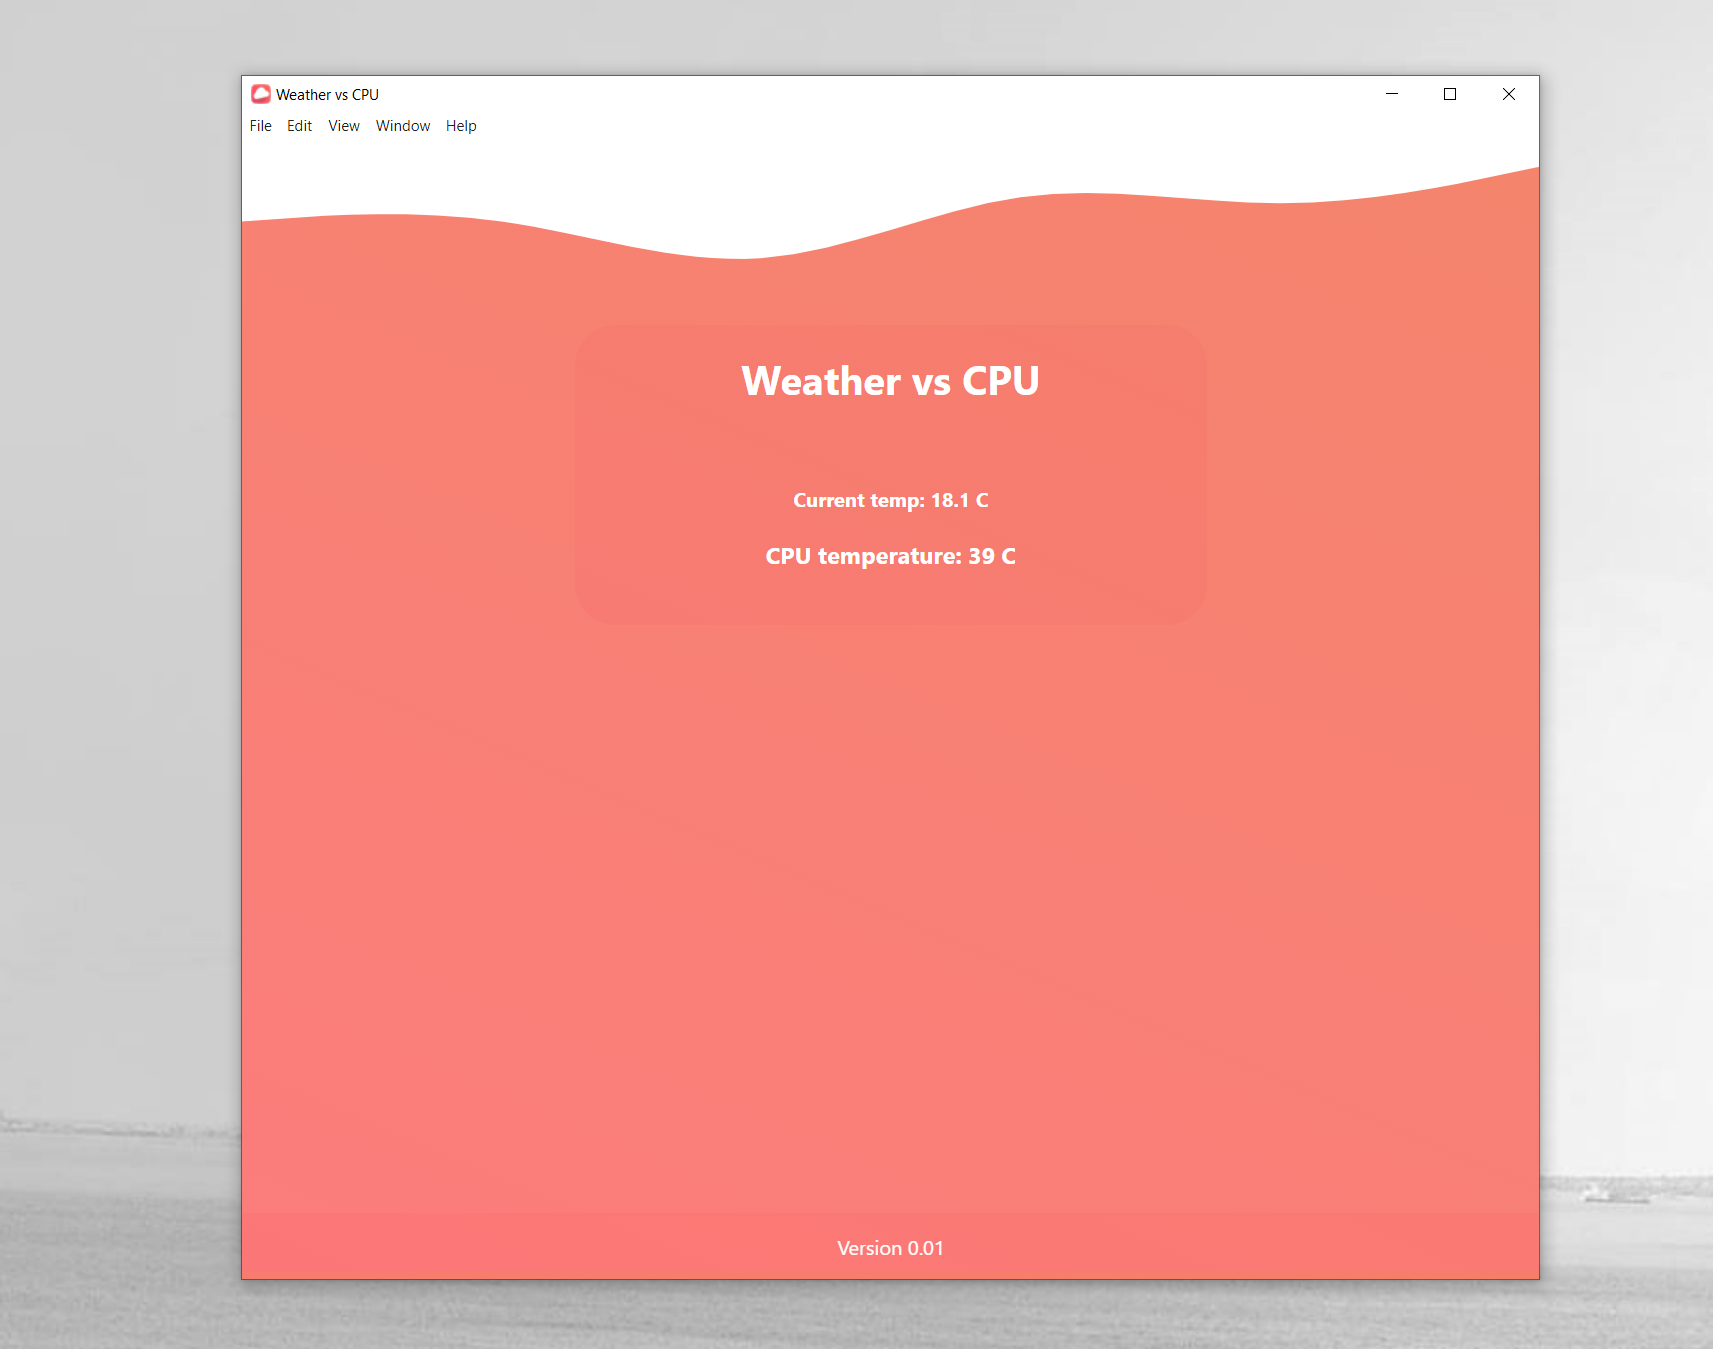
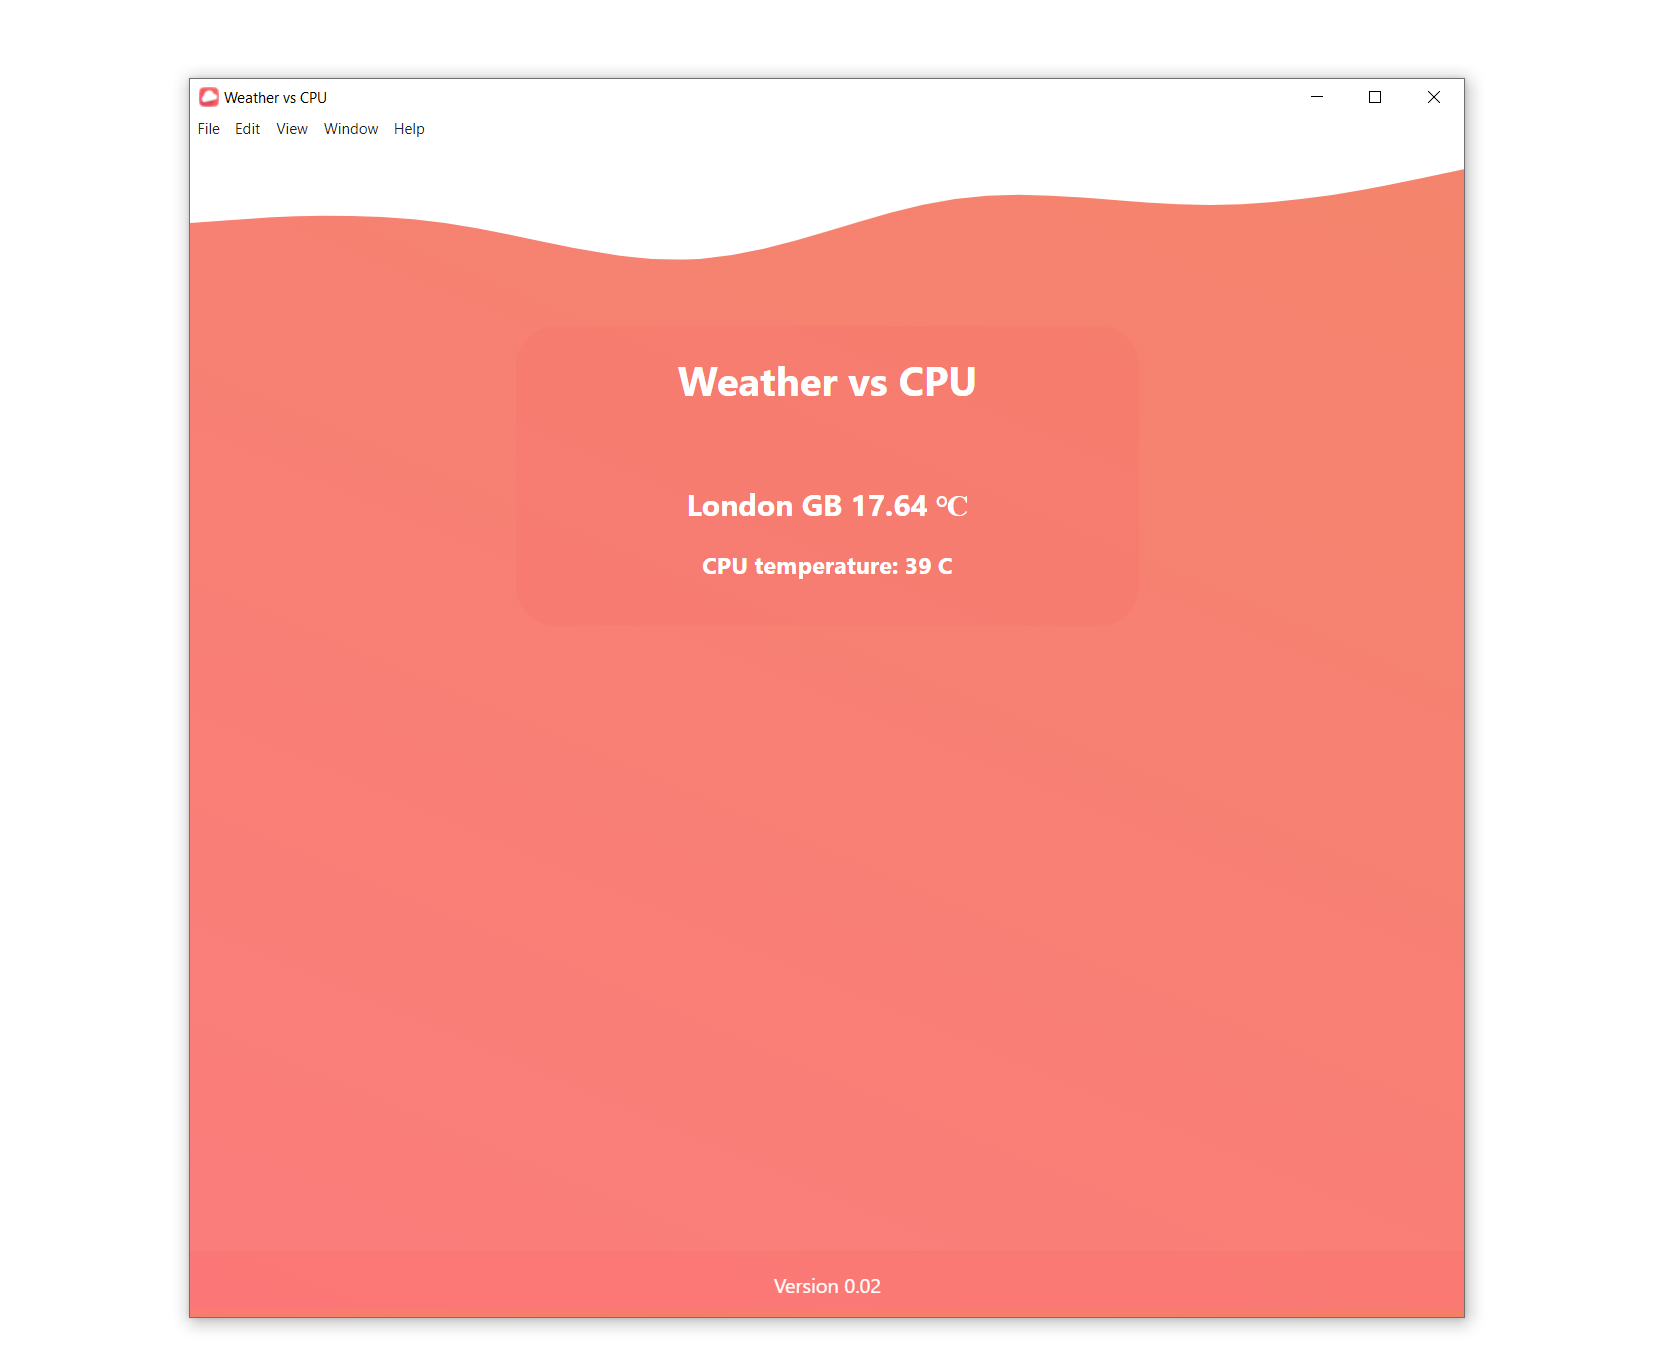
V0.02 added Weather API

diff --git a/src/components/Weather.js b/src/components/Weather.js
@@ -1,0 +1,46 @@
+import React, { useState, useEffect } from 'react';
+
+const Weather = (props) => {
+  const [weatherData, setWeatherData] = useState('Loading data');
+  const [temp, setTemp] = useState(' .');
+  const [location, setLocation] = useState(['loading . . ', '.']);
+  const Place = props.place;
+  const API_Key = process.env.REACT_APP_API_KEY;
+  const API_URL = `http://api.openweathermap.org/data/2.5/weather?q=${Place[0]},${Place[1]}&APPID=${API_Key}&&units=metric`;
+  
+
+  const loadData = async () => {
+    fetch(API_URL)
+      .then((response) => {
+        //getting response for error better handling
+        return response.json();
+      })
+      .then((data) => {
+        // getting fetched data and storing to state
+        setWeatherData(data);
+        setTemp(data.main.temp);
+        setLocation([data.name, data.sys.country]);
+      })
+      .catch((err) => {
+        // Do something for an error here
+        console.log('Error Reading data ' + err);
+      });
+  };
+
+  useEffect(() => {
+    loadData();
+    // eslint-disable-next-line react-hooks/exhaustive-deps
+  }, []);
+
+  console.log(weatherData);
+  return (
+    <div>
+      <h2>
+        {`${location[0]} ${location[1]} ${temp}`}
+        <span> &#8451;</span>
+      </h2>
+    </div>
+  );
+};
+
+export default Weather;

diff --git a/src/components/UI/Card.js b/src/components/UI/Card.js
@@ -1,4 +1,5 @@
 import React from 'react';
+import Weather from '../Weather';
 import classes from './Card.module.css';
 
 const Card = () => {
@@ -8,7 +9,7 @@ const Card = () => {
         <h1>Weather vs CPU</h1>
         <br></br>
         <div>
-          <h4>Current temp: 18.1 C</h4>
+          <Weather place={['london', 'uk']}/>
           <h3>CPU temperature: 39 C</h3>
         </div>
       </div>

diff --git a/src/components/Footer.js b/src/components/Footer.js
@@ -3,7 +3,7 @@ import classes from './Footer.module.css'
 
 const Foot = () => {
     return (
-        <div className={classes.Foot} ><p>Version 0.01</p></div>
+        <div className={classes.Foot} ><p>Version 0.02</p></div>
     );
 };
 

diff --git a/README.md b/README.md
@@ -18,6 +18,10 @@
 - [x] Added application grid and some dummy data
 * 
 - [x] Project structure optimised 
+- [x] Added OpenWeatherMap API 
+- [x] Implemented ability to pass Location data as props
+- [x] API Keys stored and secured
+
 * 
 - [-] Obtain API Keys, Store and Secure
 - [-] Fetch data from API for weather temperature  (axios?)
